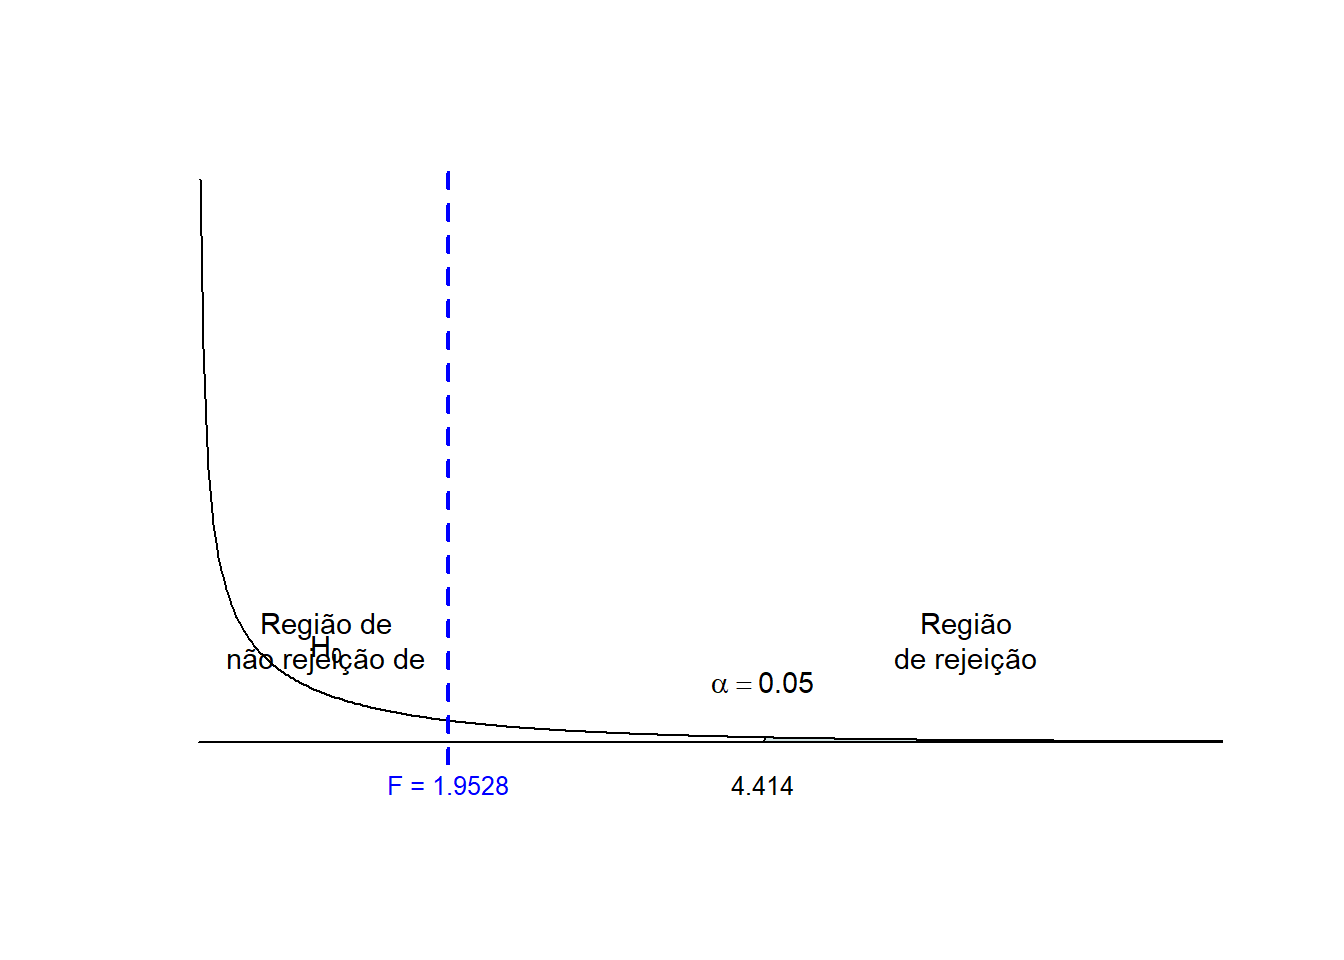
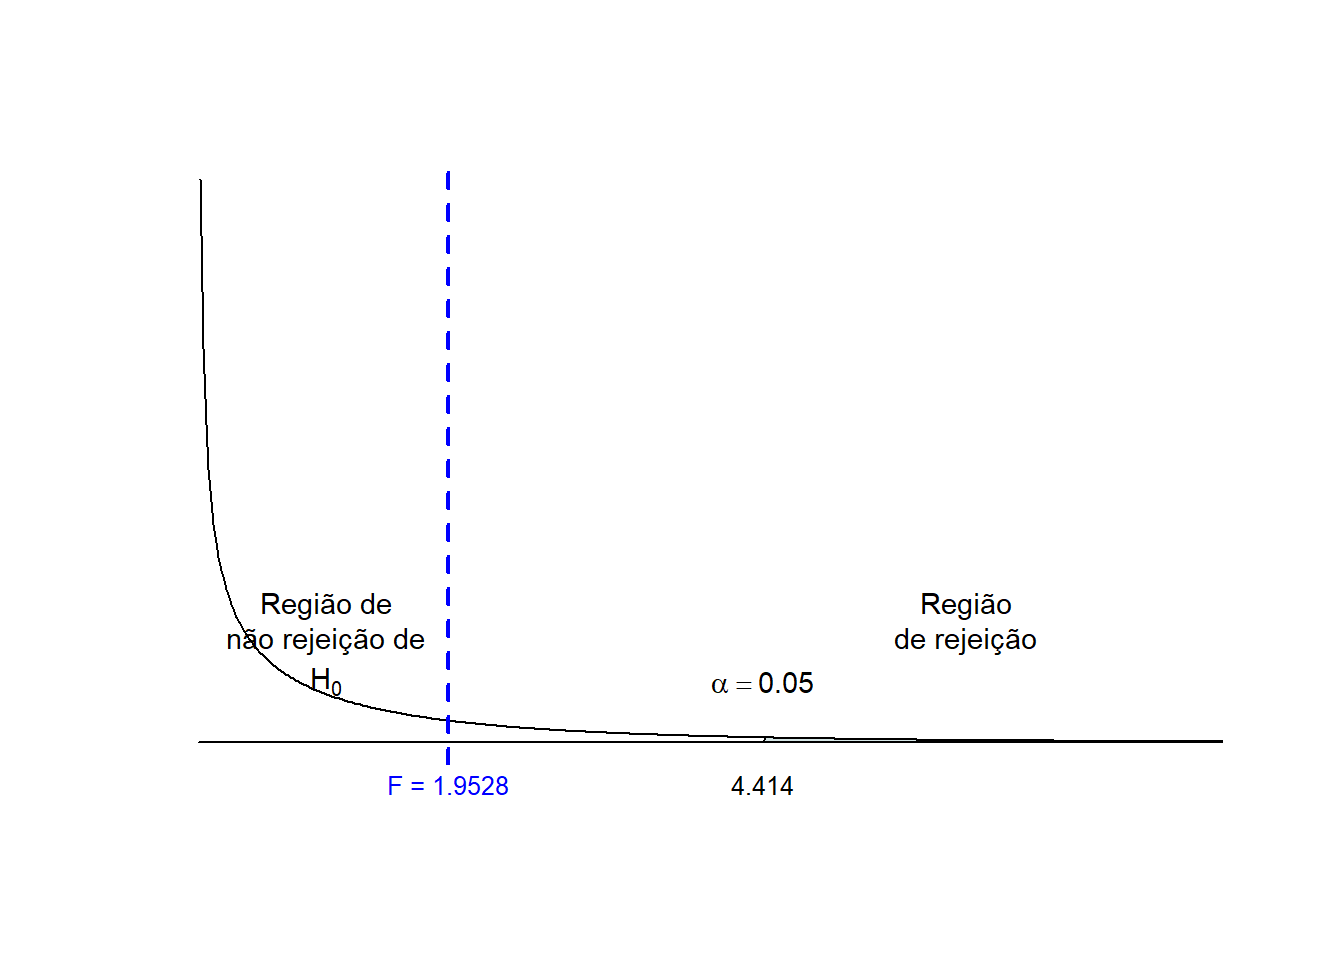
Atualiza index e figuras 2

Changed region(s): [[0.1562, 0.625, 0.3125, 0.7188], [0.6562, 0.625, 0.7812, 0.7188]]

diff --git a/index.html b/index.html
@@ -163,23 +163,27 @@ window.Quarto = {
   <ul class="collapse">
   <li><a href="#tipos-de-erros-em-um-teste-de-hipóteses" id="toc-tipos-de-erros-em-um-teste-de-hipóteses" class="nav-link" data-scroll-target="#tipos-de-erros-em-um-teste-de-hipóteses"><span class="header-section-number">5.1</span> Tipos de erros em um teste de hipóteses</a></li>
   <li><a href="#valor-p-e-alfa" id="toc-valor-p-e-alfa" class="nav-link" data-scroll-target="#valor-p-e-alfa"><span class="header-section-number">5.2</span> Valor P e alfa</a></li>
-  <li><a href="#teste-t-para-uma-amostra-variância-desconhecida" id="toc-teste-t-para-uma-amostra-variância-desconhecida" class="nav-link" data-scroll-target="#teste-t-para-uma-amostra-variância-desconhecida"><span class="header-section-number">5.3</span> Teste T para uma amostra (variância desconhecida)</a>
-  <ul class="collapse">
-  <li><a href="#exemplo" id="toc-exemplo" class="nav-link" data-scroll-target="#exemplo"><span class="header-section-number">5.3.1</span> Exemplo</a></li>
-  <li><a href="#procedimentos" id="toc-procedimentos" class="nav-link" data-scroll-target="#procedimentos"><span class="header-section-number">5.3.2</span> Procedimentos</a></li>
   </ul></li>
-  <li><a href="#análise-de-normalidade" id="toc-análise-de-normalidade" class="nav-link" data-scroll-target="#análise-de-normalidade"><span class="header-section-number">5.4</span> Análise de normalidade</a>
+  <li><a href="#teste-t-para-uma-amostra-variância-desconhecida" id="toc-teste-t-para-uma-amostra-variância-desconhecida" class="nav-link" data-scroll-target="#teste-t-para-uma-amostra-variância-desconhecida"><span class="header-section-number">6</span> Teste T para uma amostra (variância desconhecida)</a>
   <ul class="collapse">
-  <li><a href="#análise-gráfica-da-normalidade" id="toc-análise-gráfica-da-normalidade" class="nav-link" data-scroll-target="#análise-gráfica-da-normalidade"><span class="header-section-number">5.4.1</span> Análise gráfica da normalidade</a></li>
-  <li><a href="#testes-de-normalidade" id="toc-testes-de-normalidade" class="nav-link" data-scroll-target="#testes-de-normalidade"><span class="header-section-number">5.4.2</span> Testes de normalidade</a></li>
-  <li><a href="#exercício-2" id="toc-exercício-2" class="nav-link" data-scroll-target="#exercício-2"><span class="header-section-number">5.4.3</span> Exercício</a></li>
+  <li><a href="#exemplo" id="toc-exemplo" class="nav-link" data-scroll-target="#exemplo"><span class="header-section-number">6.1</span> Exemplo</a></li>
+  <li><a href="#procedimentos" id="toc-procedimentos" class="nav-link" data-scroll-target="#procedimentos"><span class="header-section-number">6.2</span> Procedimentos</a></li>
   </ul></li>
-  <li><a href="#teste-de-hipótese-para-um-fator-com-dois-níveis-duas-amostras-independentes." id="toc-teste-de-hipótese-para-um-fator-com-dois-níveis-duas-amostras-independentes." class="nav-link" data-scroll-target="#teste-de-hipótese-para-um-fator-com-dois-níveis-duas-amostras-independentes."><span class="header-section-number">5.5</span> Teste de hipótese para um fator com dois níveis (duas amostras independentes).</a>
+  <li><a href="#análise-de-normalidade" id="toc-análise-de-normalidade" class="nav-link" data-scroll-target="#análise-de-normalidade"><span class="header-section-number">7</span> Análise de normalidade</a>
   <ul class="collapse">
-  <li><a href="#teste-de-normalidade-dos-dados" id="toc-teste-de-normalidade-dos-dados" class="nav-link" data-scroll-target="#teste-de-normalidade-dos-dados"><span class="header-section-number">5.5.1</span> Teste de normalidade dos dados</a></li>
-  <li><a href="#teste-de-homogeneidade-das-variâncias-homocedasticidade" id="toc-teste-de-homogeneidade-das-variâncias-homocedasticidade" class="nav-link" data-scroll-target="#teste-de-homogeneidade-das-variâncias-homocedasticidade"><span class="header-section-number">5.5.2</span> Teste de homogeneidade das variâncias (Homocedasticidade)</a></li>
-  <li><a href="#o-teste-t-para-dois-tratamentos-independentes" id="toc-o-teste-t-para-dois-tratamentos-independentes" class="nav-link" data-scroll-target="#o-teste-t-para-dois-tratamentos-independentes"><span class="header-section-number">5.5.3</span> O teste T para dois tratamentos independentes</a></li>
+  <li><a href="#análise-gráfica-da-normalidade" id="toc-análise-gráfica-da-normalidade" class="nav-link" data-scroll-target="#análise-gráfica-da-normalidade"><span class="header-section-number">7.1</span> Análise gráfica da normalidade</a></li>
+  <li><a href="#testes-de-normalidade" id="toc-testes-de-normalidade" class="nav-link" data-scroll-target="#testes-de-normalidade"><span class="header-section-number">7.2</span> Testes de normalidade</a></li>
+  <li><a href="#exercício-2" id="toc-exercício-2" class="nav-link" data-scroll-target="#exercício-2"><span class="header-section-number">7.3</span> Exercício</a></li>
   </ul></li>
+  <li><a href="#teste-de-hipótese-para-um-fator-com-dois-níveis-duas-amostras-independentes." id="toc-teste-de-hipótese-para-um-fator-com-dois-níveis-duas-amostras-independentes." class="nav-link" data-scroll-target="#teste-de-hipótese-para-um-fator-com-dois-níveis-duas-amostras-independentes."><span class="header-section-number">8</span> Teste de hipótese para um fator com dois níveis (duas amostras independentes).</a>
+  <ul class="collapse">
+  <li><a href="#teste-de-normalidade-dos-dados" id="toc-teste-de-normalidade-dos-dados" class="nav-link" data-scroll-target="#teste-de-normalidade-dos-dados"><span class="header-section-number">8.1</span> Teste de normalidade dos dados</a></li>
+  <li><a href="#teste-de-homogeneidade-das-variâncias-homocedasticidade" id="toc-teste-de-homogeneidade-das-variâncias-homocedasticidade" class="nav-link" data-scroll-target="#teste-de-homogeneidade-das-variâncias-homocedasticidade"><span class="header-section-number">8.2</span> Teste de homogeneidade das variâncias (Homocedasticidade)</a>
+  <ul class="collapse">
+  <li><a href="#teste-f-de-homogeneidade-de-variâncias" id="toc-teste-f-de-homogeneidade-de-variâncias" class="nav-link" data-scroll-target="#teste-f-de-homogeneidade-de-variâncias"><span class="header-section-number">8.2.1</span> Teste F de homogeneidade de variâncias</a></li>
+  <li><a href="#o-teste-de-levene" id="toc-o-teste-de-levene" class="nav-link" data-scroll-target="#o-teste-de-levene"><span class="header-section-number">8.2.2</span> O Teste de Levene</a></li>
+  </ul></li>
+  <li><a href="#o-teste-t-para-dois-tratamentos-independentes" id="toc-o-teste-t-para-dois-tratamentos-independentes" class="nav-link" data-scroll-target="#o-teste-t-para-dois-tratamentos-independentes"><span class="header-section-number">8.3</span> O teste T para dois tratamentos independentes</a></li>
   </ul></li>
   </ul>
 </nav>
@@ -1421,8 +1425,9 @@ Figura&nbsp;33: Relação entre o nível de significância (<span class="math in
 <p><span class="math display">\[p&lt;.05\]</span> <span class="math display">\[p&lt;.01\]</span> <span class="math display">\[p&lt;.001\]</span></p>
 <p>Todavia quando <span class="math inline">\(p&gt;.05\)</span>, reporta-se somente <span class="math inline">\(n.s.\)</span>, do inglês <em>non-significant</em>.</p>
 </section>
-<section id="teste-t-para-uma-amostra-variância-desconhecida" class="level2" data-number="5.3">
-<h2 data-number="5.3" class="anchored" data-anchor-id="teste-t-para-uma-amostra-variância-desconhecida"><span class="header-section-number">5.3</span> Teste T para uma amostra (variância desconhecida)</h2>
+</section>
+<section id="teste-t-para-uma-amostra-variância-desconhecida" class="level1" data-number="6">
+<h1 data-number="6"><span class="header-section-number">6</span> Teste T para uma amostra (variância desconhecida)</h1>
 <p>Pode ocorrer que se esteja interessado em determinar se um atributo de uma amostra experimental é ou não igual a certo valor.</p>
 <p><span class="math display">\[
 \begin{array}{llcc}
@@ -1431,16 +1436,16 @@ H_{1\textrm{(possíveis)}}&amp;:\mu\neq\mu_0, &amp; \mu&gt;\mu_0 \; \text{ou} &a
 \end{array}
 \]</span></p>
 <p>onde <span class="math inline">\(\bar{x}\)</span> é a média amostral e <span class="math inline">\(\mu_0\)</span> é uma constante.</p>
-<section id="exemplo" class="level3" data-number="5.3.1">
-<h3 data-number="5.3.1" class="anchored" data-anchor-id="exemplo"><span class="header-section-number">5.3.1</span> Exemplo</h3>
+<section id="exemplo" class="level2" data-number="6.1">
+<h2 data-number="6.1" class="anchored" data-anchor-id="exemplo"><span class="header-section-number">6.1</span> Exemplo</h2>
 <p>Após o registro de 40 ensaios (ou observações) do tempo de vida útil em anos de baterias, pretende-se decidir se a duração média é de 3,5 anos.</p>
 <p><span class="math display">\[H_0:\mu=3,5\]</span> <span class="math display">\[H_0:\mu\neq3,5\]</span></p>
 <p>O teste mais comum para esse tipo de situação é o teste <em>t</em>, que supõe que <span class="math inline">\(x\)</span> é uma variável aleatória normalmente distribuída com média <span class="math inline">\(\mu\)</span> e <span class="math inline">\(\sigma\)</span> desconhecidos. Como, na maioria das vezes, não se conhece a variância da população, a distribuição <em>t</em> amostral é a seguinte:</p>
 <p><span class="math display">\[t_0=\frac{\bar{x}-\mu_0}{\dfrac{s_x}{\sqrt{n}}}\]</span></p>
 <p>onde <span class="math inline">\(\mu_0\)</span> é o valor alegado, <span class="math inline">\(n\)</span> é o número de observações e <span class="math inline">\(s_x\)</span> é o desvio padrão da amostra. Para a hipótese bilateral, rejeita-se a <span class="math inline">\(H_0\)</span> quando <span class="math inline">\(t_0\)</span> excede o valor crítico <span class="math inline">\(t_{\frac{\alpha}{2}, n-1}\)</span>, a um nível de significância <span class="math inline">\(\alpha\)</span> com <span class="math inline">\(\nu = n-1\)</span> graus de liberdade. Já para um teste unilateral, rejeita-se <span class="math inline">\(H_0\)</span>, quando <span class="math inline">\(t_0\)</span> excede o valor <span class="math inline">\(t_{\frac{\alpha}{2}, n-1}\)</span> positivo ou negativo conforme o teste se refere à verificação do valor amostral ser maior ou menor do que o valor alegado.</p>
 </section>
-<section id="procedimentos" class="level3" data-number="5.3.2">
-<h3 data-number="5.3.2" class="anchored" data-anchor-id="procedimentos"><span class="header-section-number">5.3.2</span> Procedimentos</h3>
+<section id="procedimentos" class="level2" data-number="6.2">
+<h2 data-number="6.2" class="anchored" data-anchor-id="procedimentos"><span class="header-section-number">6.2</span> Procedimentos</h2>
 <ol type="1">
 <li>Verificar suposições: normalidade (realizada excepcionalmente adiante)</li>
 <li>Fixar a <span class="math inline">\(H_0\)</span> e a <span class="math inline">\(H_1\)</span>;</li>
@@ -1584,11 +1589,11 @@ mean of x
 </ul>
 </section>
 </section>
-<section id="análise-de-normalidade" class="level2" data-number="5.4">
-<h2 data-number="5.4" class="anchored" data-anchor-id="análise-de-normalidade"><span class="header-section-number">5.4</span> Análise de normalidade</h2>
+<section id="análise-de-normalidade" class="level1" data-number="7">
+<h1 data-number="7"><span class="header-section-number">7</span> Análise de normalidade</h1>
 <p>Muitos testes estatísticos supõem que a distribuição da amostra siga uma distribuição particular, especialmente a normal. A verificação da qualidade de ajuste da distribuição da variável aleatória pode ser realizada por meior de exame gráfico e por testes formais.</p>
-<section id="análise-gráfica-da-normalidade" class="level3" data-number="5.4.1">
-<h3 data-number="5.4.1" class="anchored" data-anchor-id="análise-gráfica-da-normalidade"><span class="header-section-number">5.4.1</span> Análise gráfica da normalidade</h3>
+<section id="análise-gráfica-da-normalidade" class="level2" data-number="7.1">
+<h2 data-number="7.1" class="anchored" data-anchor-id="análise-gráfica-da-normalidade"><span class="header-section-number">7.1</span> Análise gráfica da normalidade</h2>
 <div class="cell" data-layout-align="center">
 <div class="code-copy-outer-scaffold"><div class="sourceCode cell-code" id="cb77"><pre class="sourceCode r code-with-copy"><code class="sourceCode r"><span id="cb77-1"><a href="#cb77-1" aria-hidden="true" tabindex="-1"></a><span class="fu">plot</span>(bateria<span class="sc">$</span>vida_util)</span>
 <span id="cb77-2"><a href="#cb77-2" aria-hidden="true" tabindex="-1"></a><span class="fu">abline</span>(<span class="at">h=</span><span class="fu">mean</span>(bateria<span class="sc">$</span>vida_util),<span class="at">col=</span><span class="st">"blue"</span>,<span class="at">lty =</span> <span class="dv">2</span>) <span class="co"># linha horiz. na média</span></span></code></pre></div><button title="Copiar para a área de transferência" class="code-copy-button"><i class="bi"></i></button></div>
@@ -1682,8 +1687,8 @@ Figura&nbsp;39: Histograma padronizado, densidade empírica vs curva normal
 </div>
 </div>
 </section>
-<section id="testes-de-normalidade" class="level3" data-number="5.4.2">
-<h3 data-number="5.4.2" class="anchored" data-anchor-id="testes-de-normalidade"><span class="header-section-number">5.4.2</span> Testes de normalidade</h3>
+<section id="testes-de-normalidade" class="level2" data-number="7.2">
+<h2 data-number="7.2" class="anchored" data-anchor-id="testes-de-normalidade"><span class="header-section-number">7.2</span> Testes de normalidade</h2>
 <p>Para testar se os dados seguem uma distribição normal, deve-se realizar um teste formal. Há vários disponíveis do R, contudo, o teste de Shapiro-Wilk tem sido indicado para pequenas amostras. O Shapiro-Wilk é um dos testes mais poderosos de normalidade, especialmente para pequenas amostras. Segundo Fávero et al.&nbsp;(2009), <strong>W</strong> é calculado por meio da seguinte equação:</p>
 <p><span class="math display">\[W=\frac{\left(\sum\limits_{i=1}^{n}\alpha_ix_{(i)}\right)^2}{\sum\limits_{i=1}^{n}(x_1-x)^2}\]</span></p>
 <p>onde <span class="math inline">\(x_{(i)}\)</span> são os valores da amostra ordenados; <span class="math inline">\(\alpha_i\)</span> são constantes obtidas a partir das médias, variâncias e covariâncias das estatísticas ordinais de uma amostra de dimensão <span class="math inline">\(n\)</span> de uma população normal; e <span class="math inline">\(x_1\)</span> é o menor valor.</p>
@@ -1711,8 +1716,8 @@ D = 0.10363, p-value = 0.344</code></pre>
 </div>
 </div>
 </section>
-<section id="exercício-2" class="level3" data-number="5.4.3">
-<h3 data-number="5.4.3" class="anchored" data-anchor-id="exercício-2"><span class="header-section-number">5.4.3</span> Exercício</h3>
+<section id="exercício-2" class="level2" data-number="7.3">
+<h2 data-number="7.3" class="anchored" data-anchor-id="exercício-2"><span class="header-section-number">7.3</span> Exercício</h2>
 <p>Exemplo e dados obtidos em: http://www.instantr.com/2012/12/29/performing-a-one-sample-t-test-in-r/</p>
 <p>As máquinas de uma fábrica devem envasar 500 ml de refrigerantes nas garrafas. Todavia, o fabricante suspeita que uma de suas máquinas está envasando um volume inferior de líquidos. Para investigar se a máquina está desrregulada, carregue o arquivo <a href="bottles.txt"><strong>bottles.txt</strong></a> como o comando <code>read.table()</code>. Os dados são referentes a uma amostra aleatória de volumes de 20 garrafas de refrigerantes na máquina em suspeição e faça o que se pede:</p>
 <ul>
@@ -1722,8 +1727,8 @@ D = 0.10363, p-value = 0.344</code></pre>
 </ul>
 </section>
 </section>
-<section id="teste-de-hipótese-para-um-fator-com-dois-níveis-duas-amostras-independentes." class="level2" data-number="5.5">
-<h2 data-number="5.5" class="anchored" data-anchor-id="teste-de-hipótese-para-um-fator-com-dois-níveis-duas-amostras-independentes."><span class="header-section-number">5.5</span> Teste de hipótese para um fator com dois níveis (duas amostras independentes).</h2>
+<section id="teste-de-hipótese-para-um-fator-com-dois-níveis-duas-amostras-independentes." class="level1" data-number="8">
+<h1 data-number="8"><span class="header-section-number">8</span> Teste de hipótese para um fator com dois níveis (duas amostras independentes).</h1>
 <p><span class="math display">\[
 \begin{array}{llcc}
 H_0&amp;: \mu_1=\mu_2&amp; &amp;  \\
@@ -1864,8 +1869,8 @@ Figura&nbsp;41: QQplot Argamassa - dados padronizados
 </div>
 </div>
 </div>
-<section id="teste-de-normalidade-dos-dados" class="level3" data-number="5.5.1">
-<h3 data-number="5.5.1" class="anchored" data-anchor-id="teste-de-normalidade-dos-dados"><span class="header-section-number">5.5.1</span> Teste de normalidade dos dados</h3>
+<section id="teste-de-normalidade-dos-dados" class="level2" data-number="8.1">
+<h2 data-number="8.1" class="anchored" data-anchor-id="teste-de-normalidade-dos-dados"><span class="header-section-number">8.1</span> Teste de normalidade dos dados</h2>
 <div class="cell">
 <div class="code-copy-outer-scaffold"><div class="sourceCode cell-code" id="cb100"><pre class="sourceCode r code-with-copy"><code class="sourceCode r"><span id="cb100-1"><a href="#cb100-1" aria-hidden="true" tabindex="-1"></a><span class="co"># 2.3 TESTE DE DUAS médias INDEPENDENTES</span></span>
 <span id="cb100-2"><a href="#cb100-2" aria-hidden="true" tabindex="-1"></a><span class="do">### Teste de normalidade</span></span>
@@ -1889,8 +1894,8 @@ W = 0.96262, p-value = 0.8153</code></pre>
 <div class="code-copy-outer-scaffold"><div class="sourceCode cell-code" id="cb102"><pre class="sourceCode r code-with-copy"><code class="sourceCode r"><span id="cb102-1"><a href="#cb102-1" aria-hidden="true" tabindex="-1"></a><span class="co"># Normalidade = OK, OK</span></span></code></pre></div><button title="Copiar para a área de transferência" class="code-copy-button"><i class="bi"></i></button></div>
 </div>
 </section>
-<section id="teste-de-homogeneidade-das-variâncias-homocedasticidade" class="level3" data-number="5.5.2">
-<h3 data-number="5.5.2" class="anchored" data-anchor-id="teste-de-homogeneidade-das-variâncias-homocedasticidade"><span class="header-section-number">5.5.2</span> Teste de homogeneidade das variâncias (Homocedasticidade)</h3>
+<section id="teste-de-homogeneidade-das-variâncias-homocedasticidade" class="level2" data-number="8.2">
+<h2 data-number="8.2" class="anchored" data-anchor-id="teste-de-homogeneidade-das-variâncias-homocedasticidade"><span class="header-section-number">8.2</span> Teste de homogeneidade das variâncias (Homocedasticidade)</h2>
 <p>Os dois testes de homocedasticidade são o teste F e o teste de Levene (1960). Nos dois casos, testam-se as seguintes hipóteses:</p>
 <p><span class="math display">\[H_0: \sigma_1=\sigma_2\]</span> <span class="math display">\[H_1: \sigma_1\ne\sigma_2\]</span></p>
 <p>Examine as variâncias das duas amostras:</p>
@@ -1902,8 +1907,8 @@ W = 0.96262, p-value = 0.8153</code></pre>
 </div>
 </div>
 <p>Não são iguais, mas será que a diferença é significativa a ponto de violar a suposição de igualdade de variâncias? Para determinar a diferença entre as variâncias é grave, testes estatíscos podem ser realizados.</p>
-<section id="teste-f-de-homogeneidade-de-variâncias" class="level4" data-number="5.5.2.1">
-<h4 data-number="5.5.2.1" class="anchored" data-anchor-id="teste-f-de-homogeneidade-de-variâncias"><span class="header-section-number">5.5.2.1</span> Teste F de homogeneidade de variâncias</h4>
+<section id="teste-f-de-homogeneidade-de-variâncias" class="level3" data-number="8.2.1">
+<h3 data-number="8.2.1" class="anchored" data-anchor-id="teste-f-de-homogeneidade-de-variâncias"><span class="header-section-number">8.2.1</span> Teste F de homogeneidade de variâncias</h3>
 <p>O teste F de homogeneidade de variâncias é usado para verificar se duas populações têm variâncias iguais, comparando as variâncias das duas amostras, <span class="math inline">\(s_1^2\)</span> and <span class="math inline">\(s_2^2\)</span>, por meio do quociente.</p>
 <p><span class="math display">\[F=\frac{s_1^2}{s_2^2}\]</span></p>
 <p>Com <span class="math inline">\(n_1-1\)</span> graus de liberdade para o numerador e <span class="math inline">\(n_2-1\)</span> graus de liberdade para o denominador. Se as variâncias forem iguais, esse quociente deve ficar próximo de 1. Quanto mais distante de 1, maior a evidência de que as variâncias são diferentes.</p>
@@ -1948,8 +1953,8 @@ ratio of variances
 </div>
 <p>Como se pode observar nos resultados, o valor P da estatística F é maior do que significância estabelecida, <span class="math inline">\(F(9, 9) = 1.6293, p = .4785\)</span>, de modo que não se pode rejeitar a hipótese nula de que homocedasticidade, ou seja, as variâncias das amostras são iguais.</p>
 </section>
-<section id="o-teste-de-levene" class="level4" data-number="5.5.2.2">
-<h4 data-number="5.5.2.2" class="anchored" data-anchor-id="o-teste-de-levene"><span class="header-section-number">5.5.2.2</span> O Teste de Levene</h4>
+<section id="o-teste-de-levene" class="level3" data-number="8.2.2">
+<h3 data-number="8.2.2" class="anchored" data-anchor-id="o-teste-de-levene"><span class="header-section-number">8.2.2</span> O Teste de Levene</h3>
 <p>O teste de Levene (1960) testa a hipótese nula de que as variâncias das amostras são iguais. Fávero et al.&nbsp;(2009) explicam que estatística <span class="math inline">\(L\)</span> é dada por</p>
 <p><span class="math display">\[L=\frac{N-k}{k-1}\times
 \frac{\sum\limits_{i=1}^{k} n_i \left(\bar{Z}_i-\bar{Z}\right)^2}{\sum\limits_{i=1}^{k}\sum\limits_{j=1}^{n_i}\left(\bar{Z}_{ij}-\bar{Z}_i\right)^2}\]</span></p>
@@ -1994,8 +1999,8 @@ Figura&nbsp;43: Teste de Levene (Brown–Forsythe)
 </div>
 </section>
 </section>
-<section id="o-teste-t-para-dois-tratamentos-independentes" class="level3" data-number="5.5.3">
-<h3 data-number="5.5.3" class="anchored" data-anchor-id="o-teste-t-para-dois-tratamentos-independentes"><span class="header-section-number">5.5.3</span> O teste T para dois tratamentos independentes</h3>
+<section id="o-teste-t-para-dois-tratamentos-independentes" class="level2" data-number="8.3">
+<h2 data-number="8.3" class="anchored" data-anchor-id="o-teste-t-para-dois-tratamentos-independentes"><span class="header-section-number">8.3</span> O teste T para dois tratamentos independentes</h2>
 <p>Finalmente, tendo em conta que as distribuições são normalmente distribuídas, pode-se realizar o teste t de duas maneiras conforme as variâncias das amostram sejam ou não iguais.</p>
 <p>No caso das variâncias serem iguais, <span class="math inline">\(s_1^2\)</span> e <span class="math inline">\(s_2^2\)</span>, significa que ambas estimam o mesmo valor, podendo ser combinadas (pooled) numa estimativa única <span class="math inline">\(s_p^2\)</span>.</p>
 <p><span class="math display">\[s_p^2=\frac{(n_1-1)s_1^2+(n_2-1)s_2^2}{n_1+n_2-2}\]</span></p>
@@ -2103,7 +2108,6 @@ mean in group Modificado     mean in group NaoMod
 <li>O intervalo de confiança vai de -0.54507339 a -0.01092661, excluindo diferença zero do intervalo</li>
 <li>O valor absoluto do valor t calculado da diferença entre as médias, <span class="math inline">\(|t_0|=2,1869\)</span>, excede o valor crítico bicaudal que é 2,100922.</li>
 </ul>
-</section>
 </section>
 </section>
 
